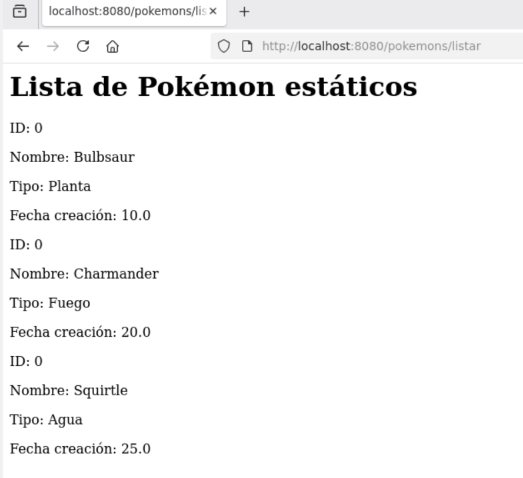
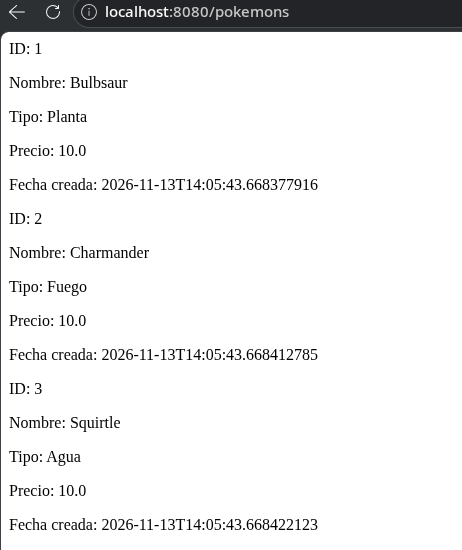
Actualización general del documentación.

diff --git a/src/main/java/es/etg/daw/dawes/store/pokemon/infraestructure/db/repository/mock/PokemonFactory.java b/src/main/java/es/etg/daw/dawes/store/pokemon/infraestructure/db/repository/mock/PokemonFactory.java
@@ -12,9 +12,9 @@ public class PokemonFactory {
     public static final Map<Integer, Pokemon> getDemoData(){
         Map<Integer, Pokemon> datos = new LinkedHashMap<>();
 
-        datos.put(1, new Pokemon(1, "Pokemon1","tipo1","1", 1, LocalDateTime.now()));
-        datos.put(2, new Pokemon(2, "Pokemon2","tipo2","2", 2, LocalDateTime.now()));
-        datos.put(3, new Pokemon(3, "Pokemon3","tipo3","3", 3, LocalDateTime.now()));
+        datos.put(1, new Pokemon(1, "Bulbsaur","Planta","1", 10, LocalDateTime.now()));
+        datos.put(2, new Pokemon(2, "Charmander","Fuego","2", 10, LocalDateTime.now()));
+        datos.put(3, new Pokemon(3, "Squirtle","Agua","3", 10, LocalDateTime.now()));
 
 
         return datos;

diff --git a/documentation/editar.md b/documentation/editar.md
@@ -3,8 +3,8 @@
 Esta práctica permite recibir el **ID** del Pokémon desde la ruta y los **nuevos datos** desde el cuerpo de la petición.
 
 - Ruta: `PUT /pokemons/{id}`
-- Controller: `@PutMapping("/{id}")`, `@PathVariable int id`, `@RequestBody PokemonRequest`
-- Flujo: `PokemonController` → `PokemonMapper.toCommand(id, request)` → `EditPokemonService` → `EditPokemonUseCase`.
+- Controller: `@PutMapping("/{id}")`, `@PathVariable int id`, `@Valid @RequestBody PokemonRequest`
+- Flujo: `PokemonController` → `PokemonMapper.toCommand(id, request)` → `EditPokemonService` → `EditPokemonUseCase` → `PokemonRepository.getById()` y `save()`. Si no existe el ID, se lanza `PokemonNotFoundException`.
 
 ## Cómo probarlo
 
@@ -26,4 +26,6 @@ La aplicación esta preparada para mostrar un mensaje de error dependiendo de lo
 
 - El nombre del Pokémon no puede estar **vacío**. Tampoco  puede tener un **salto de línea ni espacio  en blanco**.
 - El tipo del Pokémon no puede estar **vacío**.
-- El preciod el Pokémon no puede estar ni por debajo de 0 ni por encima de 100.
+- El precio del Pokémon no puede estar ni por debajo de 0 ni por encima de 100.
+
+Los mensajes están definidos en `messages.properties`.

diff --git a/documentation/crear.md b/documentation/crear.md
@@ -15,7 +15,7 @@ La aplicación permite introducir un Pokémon mediante un formulario HTML. El na
 
 ## Cómo funciona
 
-El Controller recibe `PokemonRequest` y el Mapper lo transforma en `CreatePokemonCommand`. Después, `CreatePokemonService` llama a `CreatePokemonUseCase`, que crea el objeto con `Pokemon.builder()` y devuelve el resultado al Controller.
+El Controller valida `PokemonRequest` con `@Valid` y el Mapper lo transforma en `CreatePokemonCommand`. Después, `CreatePokemonService` llama a `CreatePokemonUseCase`, que crea el objeto con `Pokemon.builder()` y lo guarda mediante `PokemonRepository.save()`.
 
 ## Gestión de validación
 
@@ -23,4 +23,7 @@ La aplicación esta preparada para mostrar un mensaje de error dependiendo de lo
 
 - El nombre del Pokémon no puede estar **vacío**. Tampoco  puede tener un **salto de línea ni espacio  en blanco**.
 - El tipo del Pokémon no puede estar **vacío**.
-- El preciod el Pokémon no puede estar ni por debajo de 0 ni por encima de 100.
+- El precio del Pokémon no puede estar ni por debajo de 0 ni por encima de 100.
+
+
+Los mensajes están definidos en `messages.properties`.

diff --git a/documentation/gestion-errores.md b/documentation/gestion-errores.md
@@ -1,10 +1,10 @@
 # Gestionar errores con slice common
 
-Se ha implementado un nuevo slice (common) para manejar las excepciónes de otros slices(como Pokemón), como puede ser **NullPointerException.java**(evitando implementar la gestión de excepciónes en el slice Pokémon, ya que haría el resto de slices dependiente de este).
+El slice `common` permite manejar las excepciones de otros slices (como Pokémon o, en el futuro, Entrenador), por ejemplo `NullPointerException`, evitando implementar la gestión de errores en el slice Pokémon y hacer que los demás slices dependan de él.
 
 ```mermaid
 flowchart LR
-    P[Slice Pokemon<br/>Manejar datos de los Pokémon] --> E
-    E[Slice Common <br/>Gestiónar excepciónes de otros slices]
-    T[Slice Entrenador<br/>Slice inventado] --> E
+    P[Slice Pokémon<br/>Manejar datos de los Pokémon] --> E
+    E[Slice common<br/>Gestionar excepciones de otros slices]
+    T[Slice Entrenador<br/>Futuro] -.-> E
 ```

diff --git a/documentation/eliminar.md b/documentation/eliminar.md
@@ -3,7 +3,7 @@
 La petición identifica el Pokémon que queremos eliminar mediante un parámetro de ruta: `DELETE /pokemons/{id}`.
 
 - Controller: `@DeleteMapping("/{id}")` y `@PathVariable int id`.
-- Flujo: `PokemonController` → `DeletePokemonService` → `DeletePokemonUseCase`.
+- Flujo: `PokemonController` → `DeletePokemonService` → `DeletePokemonUseCase` → `PokemonRepository.getById()` y `deleteById()`. Si no existe el ID, se lanza `PokemonNotFoundException`.
 - Respuesta actual: `204 No Content`.
 
 ## Cómo probarlo con curl
@@ -13,10 +13,6 @@ Iniciar `StoreApplication.java` y ejecutar:
 ```bash
 curl -i -X DELETE http://localhost:8080/pokemons/5
 ```
-
-En **Debug**, colocar un breakpoint en `DeletePokemonUseCase.delete(int id)` y comprobar que llega `id = 5`.
-
-<img src="./images/breakpointid.png">
 
 ## Alternativa: formulario HTML
 

diff --git a/documentation/listar.md b/documentation/listar.md
@@ -12,4 +12,4 @@ El listado de prueba muestra tres Pokémon estáticos: Bulbsaur, Charmander y Sq
 
 ## Cómo funciona
 
-`PokemonController` atiende `GET /pokemons` y llama a `ListPokemonService`, que delega en `FindPokemonUseCase`. El UseCase crea los tres objetos y devuelve una lista al Controller. Finalmente, el Controller genera el HTML con `StringBuilder` y un `for-each`.
+`PokemonController` atiende `GET /pokemons` y llama a `ListPokemonService`, que delega en `FindPokemonUseCase`. El UseCase consulta `PokemonRepository` y devuelve la lista almacenada en `PokemonRepositoryMockImpl`. Finalmente, el Controller genera el HTML con `StringBuilder` y un `for-each`.
